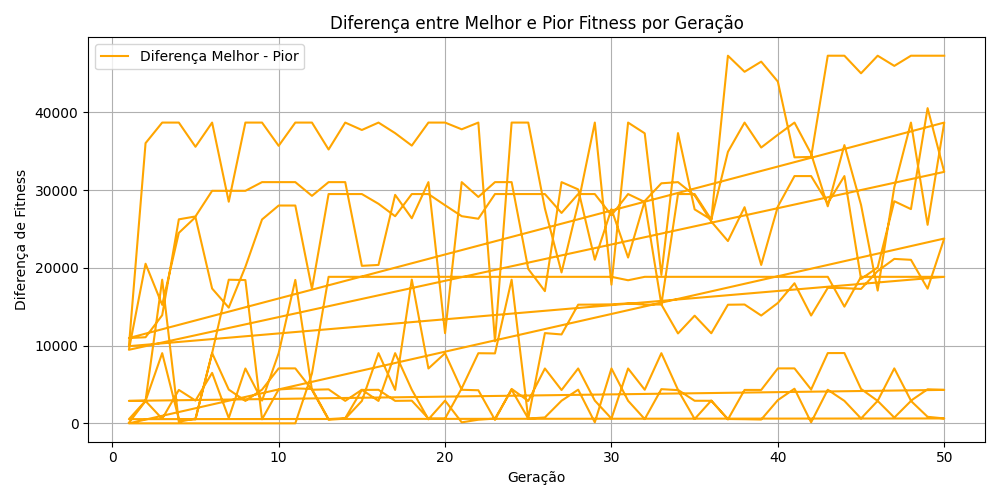
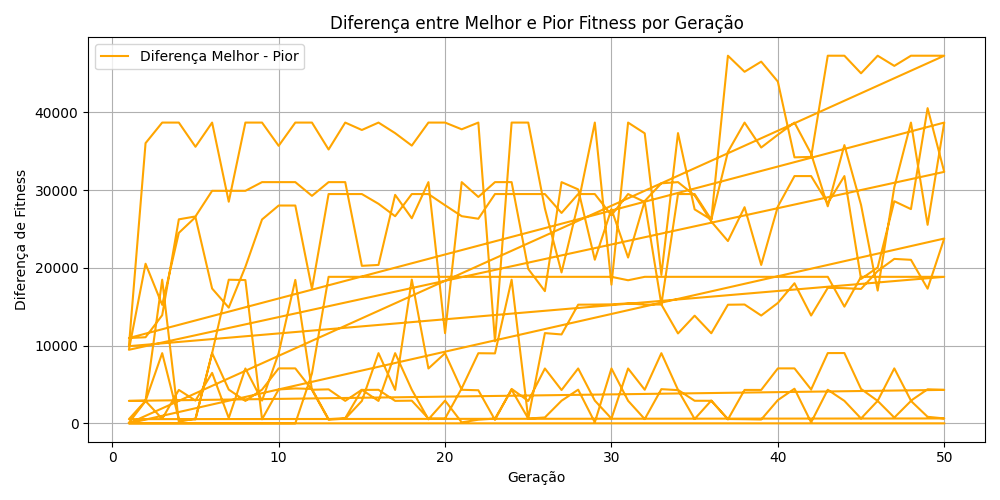
Teste 3 novo calculo

diff --git a/robo_exercicio.py b/robo_exercicio.py
@@ -1011,10 +1011,10 @@ class ProgramacaoGenetica:
                 # Pontuação positiva
                 fitness += robo.recursos_coletados * 7500
                 if robo.recursos_coletados == recursos_iniciais:
-                    fitness += 15000  # Bônus por coletar todos os recursos
+                    fitness += 500  # Bônus por coletar todos os recursos
 
                 if ambiente.verificar_atingir_meta(robo.x, robo.y, robo.raio):
-                    fitness += 20000  # Bônus por atingir a meta
+                    fitness += 1000  # Bônus por atingir a meta
 
                 fitness += robo.energia * 80  # Energia proporcional
                 fitness += passos * 15        # 15 pontos por frame onde o robô se move
@@ -1034,6 +1034,8 @@ class ProgramacaoGenetica:
                 fitness = max(fitness, 0)
 
                 melhor_fitness = max(melhor_fitness, fitness)
+
+                individuo.fitness = melhor_fitness
             
             # Atualizar melhor indivíduo
             if individuo.fitness > self.melhor_fitness:
